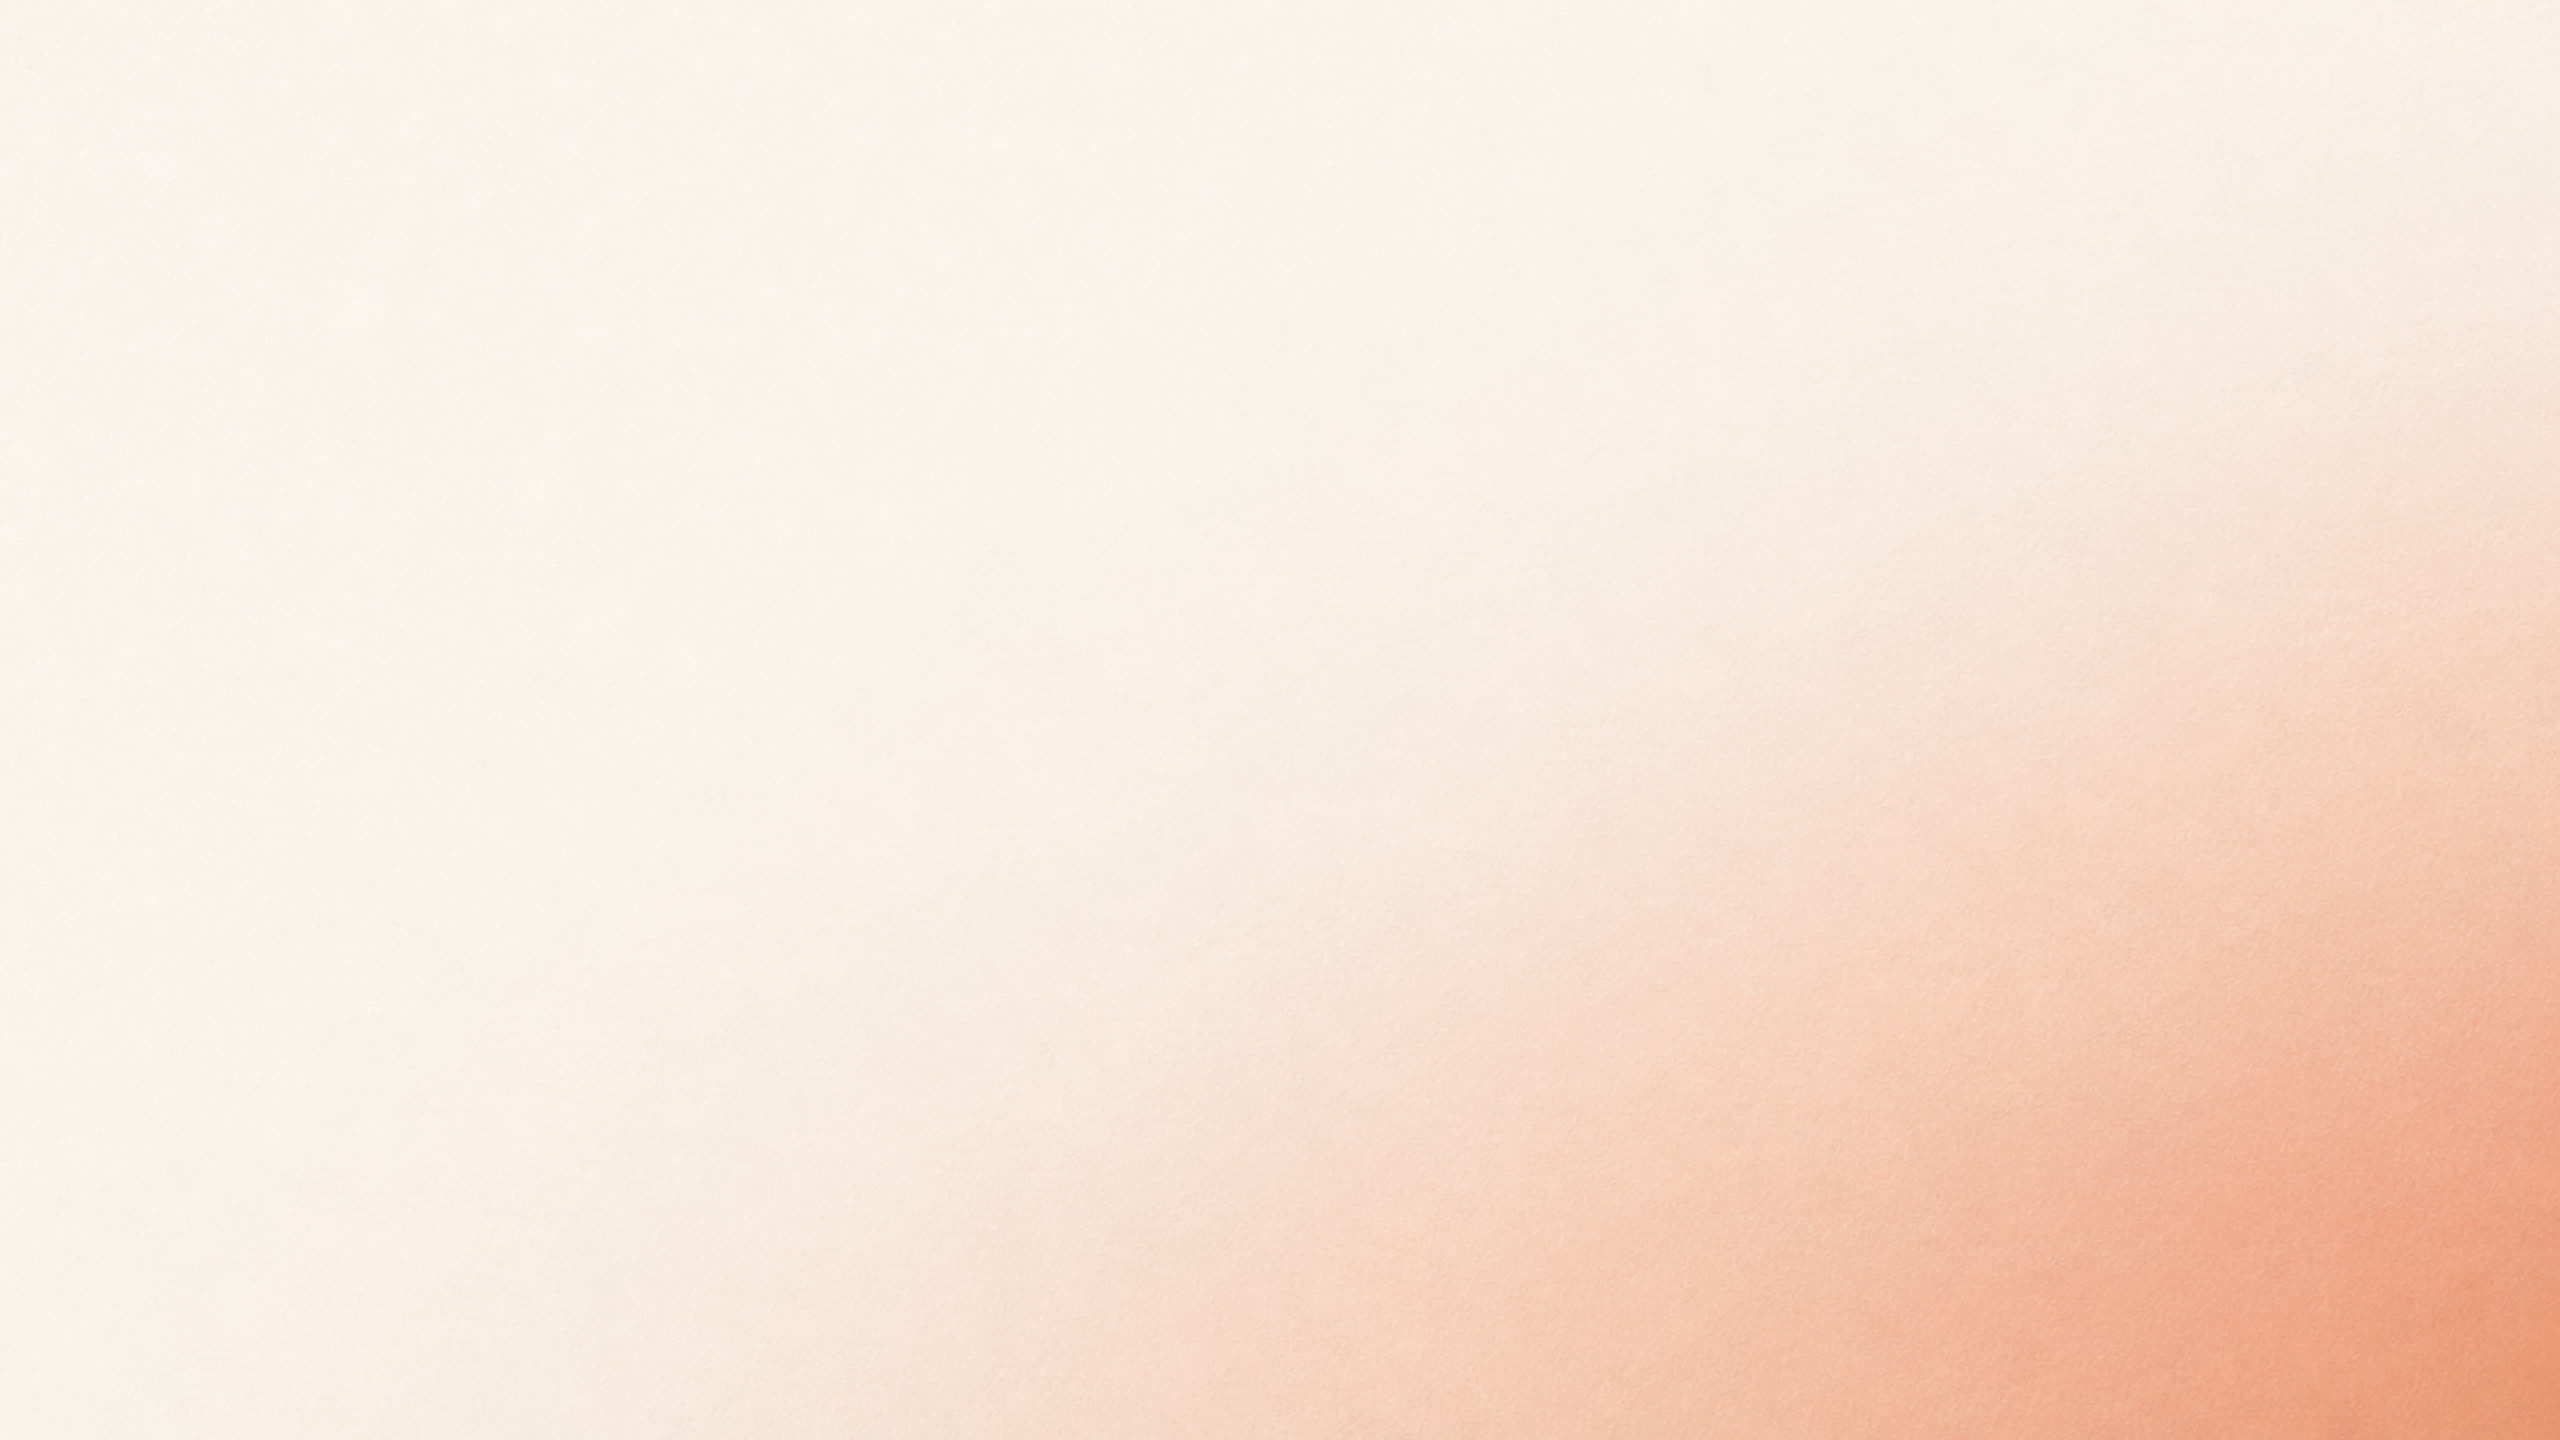
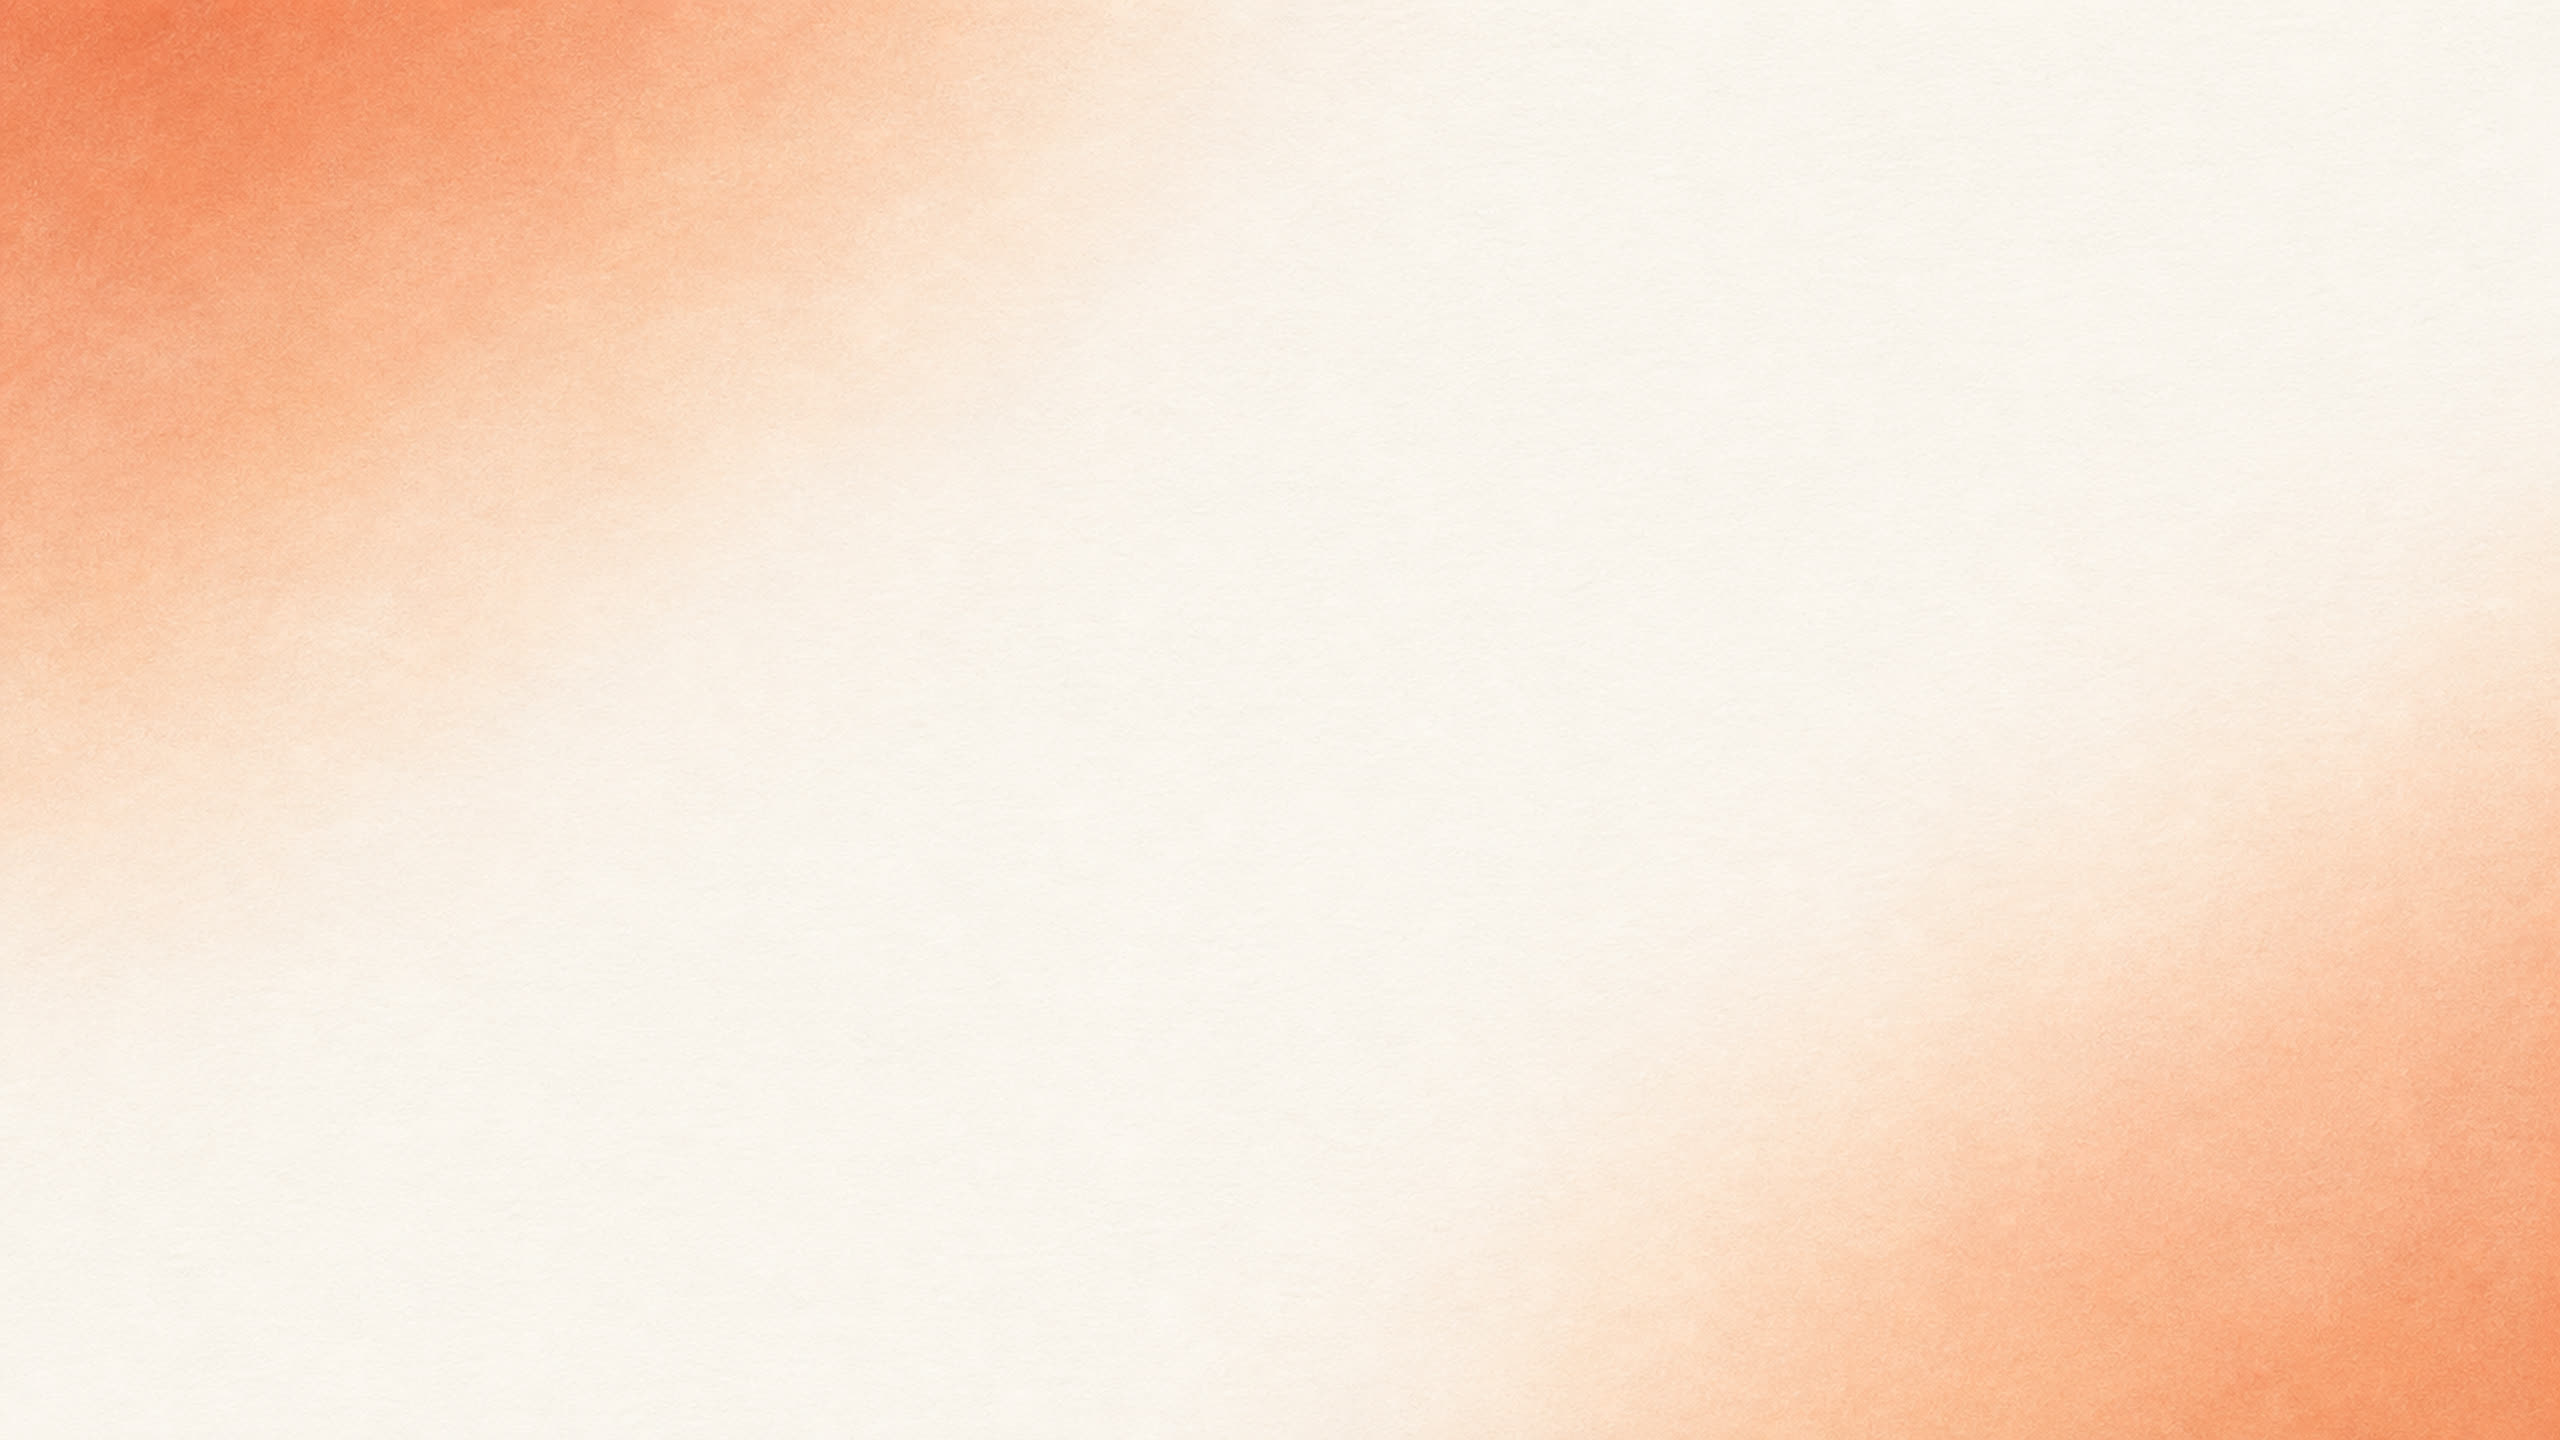
fix: make the hero background read on both corners
The generated wash sat only in the lower-right, and the bottom fade
masked most of it out — the left half of the hero read as blank paper.
Regenerate with dual corner washes (upper-left + lower-right, calm
center for the title) and keep the fade to the last 18% only.

Changed region(s): [[0.0, 0.0, 0.4688, 0.5938], [0.3125, 0.3125, 0.9688, 1.0]]

diff --git a/packages/website/src/components/home/Index.tsx b/packages/website/src/components/home/Index.tsx
@@ -31,7 +31,7 @@ const Index = () => {
           src="/images/hero-bg.jpg"
           alt=""
           aria-hidden
-          className="absolute inset-0 h-full w-full [mask-image:linear-gradient(to_bottom,#000_55%,transparent_100%)] object-cover"
+          className="absolute inset-0 h-full w-full [mask-image:linear-gradient(to_bottom,#000_82%,transparent_100%)] object-cover"
         />
         <div className="bg-grid" aria-hidden />
 
